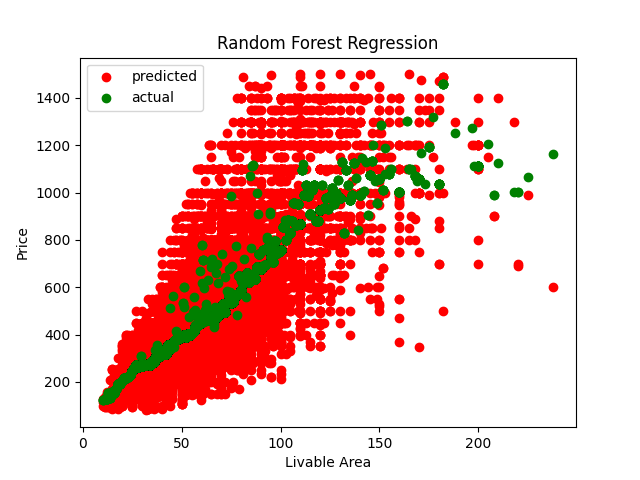
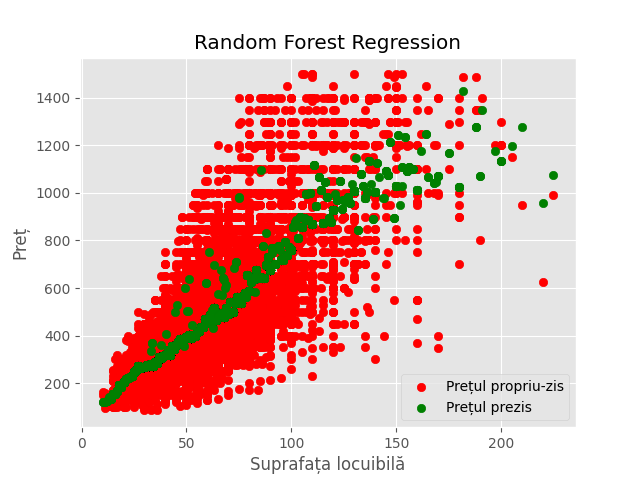
Final changes

diff --git a/src/visualization/data_visualization.py b/src/visualization/data_visualization.py
@@ -1,5 +1,8 @@
 import matplotlib.pyplot as plt
 import pandas as pd
+import scipy.stats as stats
+import numpy as np
+import math
 
 from src.models.residences import Residences
 
@@ -11,11 +14,11 @@ def plot_surface_and_rental_price():
     residences_df = pd.DataFrame(residences)
     residences_df = residences_df[residences_df.livable_area.notnull()]
     plt.figure()
-    plt.scatter(residences_df['livable_area'], residences_df['price'], s=15, edgecolor="black", c="darkorange",
-                label="surface")
-    plt.xlabel("Suprafata locuibila")
-    plt.ylabel("Pretului chiriei lunare")
-    plt.title("Suprafata locuibila vs. Pretului chiriei lunare")
+    plt.style.use('ggplot')
+    plt.scatter(residences_df['livable_area'], residences_df['price'], s=15, edgecolor="black", c="darkorange")
+    plt.xlabel("Suprafața locuibilă")
+    plt.ylabel("Prețului chiriei lunare")
+    plt.title("Suprafața locuibilă / Prețului chiriei lunare")
     plt.legend()
     plt.show()
 
@@ -31,11 +34,12 @@ def plot_surface_vs_price_per_sq_meter():
     price_per_sq_meter = residences_df['price']/residences_df['livable_area']
 
     plt.figure()
+    plt.style.use('ggplot')
     plt.scatter(livable_area, price_per_sq_meter, s=15,
-                edgecolor="black", c="darkorange", label="surface")
-    plt.xlabel("Suprafata locuibila")
-    plt.ylabel("Pretul pe metru patrat")
-    plt.title("Suprafata locuibila vs. Pretul pe metru patrat")
+                edgecolor="black", c="darkorange")
+    plt.xlabel("Suprafața locuibilă")
+    plt.ylabel("Prețul pe metrul pătrat")
+    plt.title("Suprafața locuibilă / Suprafața locuibilă")
     plt.legend()
     plt.show()
 
@@ -47,10 +51,34 @@ def plot_rooms_vs_price():
     residences_df = pd.DataFrame(residences)
     residences_df = residences_df[residences_df.rooms.notnull()]
     plt.figure()
-    plt.scatter(residences_df['rooms'], residences_df['price'], s=15, edgecolor="black", c="darkorange",
-                label="bedrooms")
-    plt.xlabel("Numar camere")
-    plt.ylabel("Pretului chiriei lunare")
-    plt.title("Numar camere vs. Pretului chiriei lunare")
+    plt.style.use('ggplot')
+    plt.scatter(residences_df['rooms'], residences_df['price'], s=15, edgecolor="black", c="darkorange")
+    plt.xlabel("Număr camere")
+    plt.ylabel("Prețului chiriei lunare")
+    plt.title("Număr camere / Prețului chiriei lunare")
     plt.legend()
+    plt.show()
+
+
+def normal_distribution():
+    residence_table = Residences()
+    # residences = residence_table.get_residences(5000)
+    residences = residence_table.get_all_residences()
+
+    residences_df = pd.DataFrame(residences)
+    prices = residences_df['price']
+    standard_deviation = prices.std()
+
+    mu = prices.mean()
+    variance = prices.var()
+    sigma = math.sqrt(variance)
+    x = np.linspace(mu - 3 * sigma, mu + 3 * sigma, 50)
+
+    plt.style.use('ggplot')
+    plt.plot(x, stats.norm.pdf(x, mu, sigma))
+    plt.title('Distribuția normală a prețurilor')
+    plt.xlabel('Prețul chiriei lunare')
+    plt.ylabel('Probabilitatea de densitate')
+    plt.suptitle('Valoarea medie: ' + str(round(mu, 2)) + '\nDeviația standard: ' + str(round(standard_deviation, 2)),
+                 x=0.75, y=0.85, fontsize=10)
     plt.show()

diff --git a/src/random_forest_test.py b/src/random_forest_test.py
@@ -1,5 +1,5 @@
 from datetime import datetime
-
+import joblib
 import numpy as np
 import math
 from src.models.residences import Residences
@@ -7,7 +7,8 @@ import pandas as pd
 
 from src.visualization.feature_importance import print_feature_importance
 
-residences_nr = 120000
+residences_nr = 12000
+save = False
 
 list_features_to_drop = ['price', 'currency', 'price_interval']
 
@@ -40,10 +41,10 @@ from sklearn.ensemble import RandomForestRegressor
 
 rf = RandomForestRegressor(n_estimators=1400,
                            min_samples_split=2,
-                           min_samples_leaf=2,
+                           min_samples_leaf=1,
                            max_features='auto',
                            random_state=42,
-                           max_depth=70,
+                           max_depth=100,
                            criterion='mse',
                            bootstrap=True,
                            verbose=1,
@@ -82,18 +83,15 @@ print('\nTotal accurate price intervals: {}/{}'.format(total_accurate, len(predi
 print_feature_importance(rf, feature_list)
 
 # Serialize the model and save
-#
-#
-import joblib
+if save is True:
+    now = datetime.now().strftime('%m-%d-%Y_%H_%M_%S')
+    err = str(round(np.mean(errors), 2)).replace('.', '-')
 
-# now = datetime.now().strftime('%m-%d-%Y_%H_%M_%S')
-# err = str(round(np.mean(errors), 2)).replace('.', '-')
-#
-# joblib.dump(rf, '../saved_models/randomfs_{}_{}_{}.pkl'.format(total_accurate, err, now))
-# print("Random Forest Model Saved")
-# #Load the model
-# lr = joblib.load('../saved_models/randomfs_{}_{}_{}.pkl'.format(total_accurate, err, now))
-# # Save features from training
-# rnd_columns = list(features_columns)
-# joblib.dump(rnd_columns, '../saved_models/rnd_columns_{}_{}_{}.pkl'.format(total_accurate, err, now))
-# print("Random Forest Model Colums Saved")
+    joblib.dump(rf, '../saved_models/randomfs_{}_{}_{}.pkl'.format(total_accurate, err, now))
+    print("Random Forest Model Saved")
+    #Load the model
+    lr = joblib.load('../saved_models/randomfs_{}_{}_{}.pkl'.format(total_accurate, err, now))
+    # Save features from training
+    rnd_columns = list(features_columns)
+    joblib.dump(rnd_columns, '../saved_models/rnd_columns_{}_{}_{}.pkl'.format(total_accurate, err, now))
+    print("Random Forest Model Colums Saved")

diff --git a/src/visualization/feature_importance.py b/src/visualization/feature_importance.py
@@ -23,15 +23,62 @@ def print_feature_importance(rf, feature_list):
         labels.append(b)
 
     y = list_y
+    plt.style.use('ggplot')
     fig, ax = plt.subplots()
     width = 0.8
     ind = np.arange(len(y))
-    ax.barh(ind, y, width, color="pink")
+    ax.barh(ind, y, width, color="#3498DB")
     ax.set_yticks(ind + width / 10)
-    ax.set_yticklabels(labels, minor=False)
-    plt.title('Feature importance in Random Forest Regression')
-    plt.xlabel('Relative importance')
-    plt.ylabel('feature')
+    ax.set_yticklabels(tr_labels(labels), minor=False)
+    plt.title('Importanța caracteristicilor în antrenarea modelului')
+    plt.xlabel('Importanța')
+    plt.ylabel('Caracteristica')
     plt.figure(figsize=(10, 8.5))
     fig.set_size_inches(10, 8.5, forward=True)
-    # plt.show()
+    plt.show()
+
+def tr_labels(labels):
+    translated_labels = []
+    for l in labels:
+        if 'balconies' in l:
+            l = 'Nr. balcoane'
+            translated_labels.append(l)
+        elif 'balconies_closed' in l:
+            l = 'Nr. balcoane închise'
+            translated_labels.append(l)
+        elif 'bathrooms' in l:
+            l = 'Nr. băi'
+            translated_labels.append(l)
+        elif 'built_area' in l:
+            l = 'Suprafață construită'
+            translated_labels.append(l)
+        elif 'livable_area' in l:
+            l = 'Suprafață utilă'
+            translated_labels.append(l)
+        elif 'comfort' in l:
+            l = 'Comfort'
+            translated_labels.append(l)
+        elif 'floors' in l:
+            l = 'Nr. etaje'
+            translated_labels.append(l)
+        elif 'floor' in l:
+            l = 'Etaj'
+            translated_labels.append(l)
+        elif 'furnished' in l:
+            l = 'Mobilat'
+            translated_labels.append(l)
+        elif 'layout' in l:
+            l = 'Tip'
+            translated_labels.append(l)
+        elif 'rooms' in l:
+            l = 'Nr. camere'
+            translated_labels.append(l)
+        elif 'zone_id' in l:
+            l = 'Zona'
+            translated_labels.append(l)
+        elif 'building_year' in l:
+            l = 'Anul clădirii'
+            translated_labels.append(l)
+
+    return translated_labels
+

diff --git a/src/visualization/result_visualization.py b/src/visualization/result_visualization.py
@@ -7,7 +7,7 @@ import pandas as pd
 from src.models.residences import Residences
 
 
-def result_visualization(nr_res=10000):
+def result_visualization(nr_res=180000):
     residence_table = Residences()
     residences = residence_table.get_residences(nr_res)
 
@@ -39,16 +39,17 @@ def result_visualization(nr_res=10000):
 
     X_grid = np.arange(min(X), max(X), 0.01)
     X_grid = X_grid.reshape((len(X_grid), 1))
+    plt.style.use('ggplot')
     plt.scatter(X_test, y_test, color='red')
     plt.scatter(X_test, y_pred, color='green')
-    plt.legend({'predicted': 'red', 'actual': 'blue'})
+    plt.legend({'Prețul propriu-zis': 'red', 'Prețul prezis': 'green'})
     plt.title('Random Forest Regression')
-    plt.xlabel('Livable Area')
-    plt.ylabel('Price')
+    plt.xlabel('Suprafața locuibilă')
+    plt.ylabel('Preț')
     plt.show()
 
     plt.plot(X_grid, rf.predict(X_grid), color='black')
     plt.title('Random Forest Regression')
-    plt.xlabel('Livable Area')
-    plt.ylabel('Price')
+    plt.xlabel('Suprafața locuibilă')
+    plt.ylabel('Preț')
     plt.show()

diff --git a/main.py b/main.py
@@ -1,13 +1,13 @@
 from src.visualization.data_visualization import plot_surface_and_rental_price, plot_surface_vs_price_per_sq_meter, \
-    plot_rooms_vs_price
+    plot_rooms_vs_price, normal_distribution
 from src.visualization.result_visualization import result_visualization
-from web.crawl_item import crawl_item
 
+
+# Usefull for plotting infomation about the model
 if __name__ == '__main__':
     plot_surface_and_rental_price()
     plot_surface_vs_price_per_sq_meter()
     plot_rooms_vs_price()
+    normal_distribution()
 
-    # crawl_item('https://www.imobiliare.ro/inchirieri-garsoniere/bucuresti/doamna-ghica/garsoniera-de-inchiriat-XV04000N9')
-
-    # result_visualization()
+    result_visualization()

diff --git a/conf/settings.py b/conf/settings.py
@@ -1,5 +1,5 @@
-# DATABASE_CONNECTION_STRING = 'mysql://root:1234@localhost:3306/realestates'
-DATABASE_CONNECTION_STRING = 'mysql://root:Password1@real-estate-2.cmtosoeheu6t.us-east-2.rds.amazonaws.com:3306/realestates'
+DATABASE_CONNECTION_STRING = 'mysql://root:1234@localhost:3306/realestates'
+# DATABASE_CONNECTION_STRING = 'mysql://root:Password1@real-estate-2.cmtosoeheu6t.us-east-2.rds.amazonaws.com:3306/realestates'
 
 
 MAX_PRICE = 1500
@@ -14,4 +14,4 @@ RON_TO_EURO_CONVERSION_RATE = 4.7
 
 SAVE_DIR = r'C:\Users\pohri\Desktop\An 4\Licenta\saved_models'
 
-FLASK_PORT = 12345
+FLASK_PORT = 8080

diff --git a/run_flask_app.py b/run_flask_app.py
@@ -2,6 +2,6 @@ from conf.settings import FLASK_PORT
 from web.flask_app import app
 
 if __name__ == '__main__':
-    # port = FLASK_PORT
+    port = FLASK_PORT
 
-    app.run()
+    app.run(port=port)
